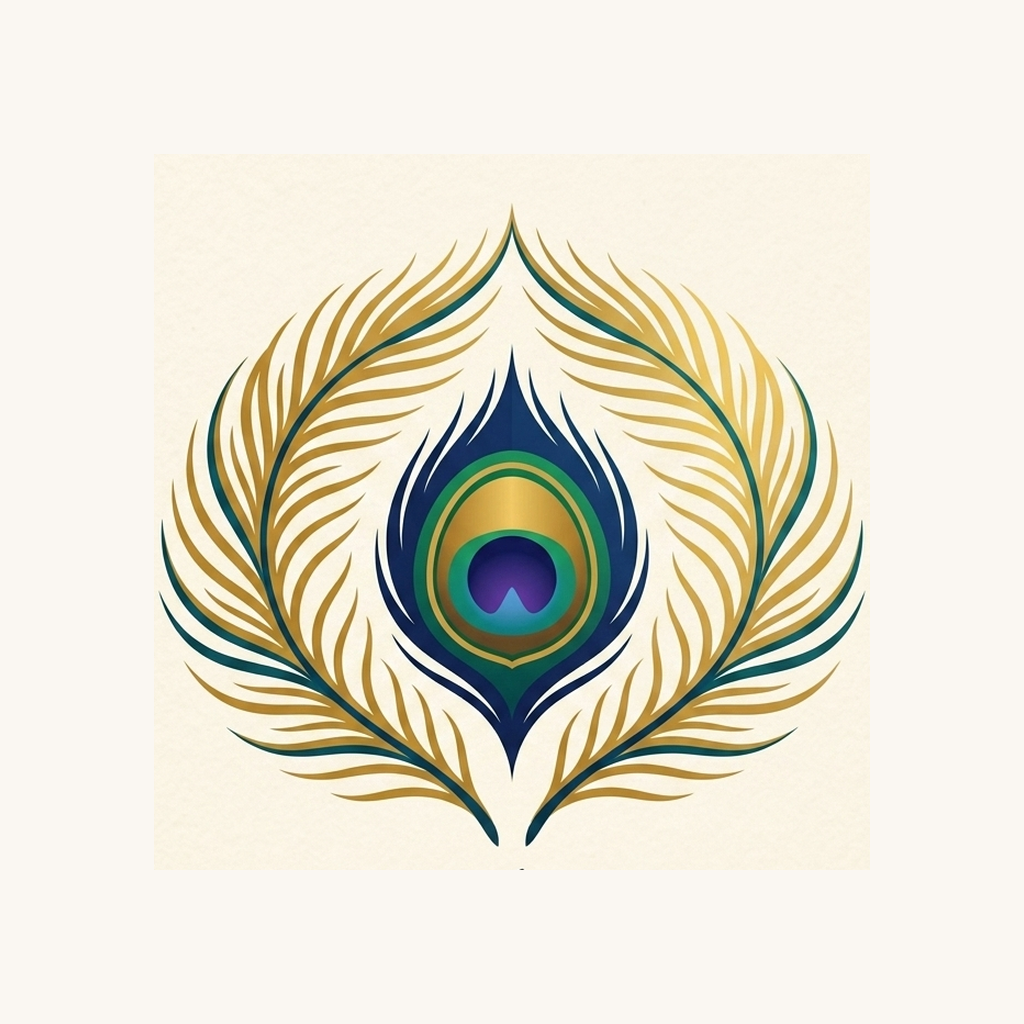
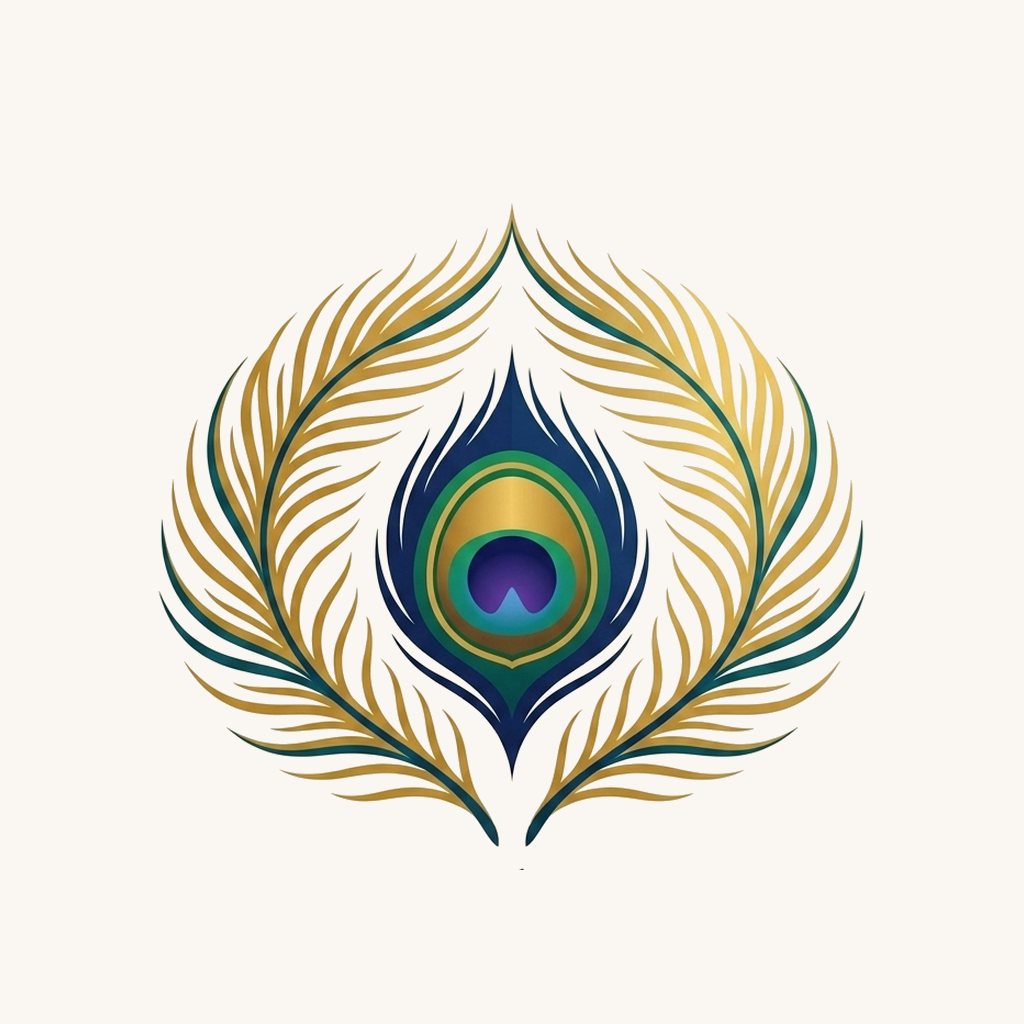
fix: splash screen color matching, sizing, and animation smoothness
- Normalize all near-cream background pixels in icon/splash assets to exact
  #FAF7F2 so the logo blends seamlessly without a visible rectangle around it
- Create splash-native.png (referenced in app.json but missing)
- Rebuild splash images with logo at 65% of canvas (was 40%)
- Fix animated overlay using explicit Dimensions.get('window').width instead
  of percentage width to avoid Yoga layout ambiguity that caused full-screen blowout
- Scale animation starts at 1.0 (matches native splash exactly) and grows to
  1.05 with overflow:hidden to keep the zoom contained

diff --git a/apps/mobile/App.tsx b/apps/mobile/App.tsx
@@ -1,6 +1,7 @@
 import { useCallback, useEffect, useRef, useState } from 'react';
 import {
   Animated,
+  Dimensions,
   Easing,
   Platform,
   StatusBar as RNStatusBar,
@@ -18,9 +19,12 @@ SplashScreen.preventAutoHideAsync();
 
 // ── Constants ─────────────────────────────────────────────────────────────────
 
-const APP_URL  = 'https://krishnasbliss.com';
-const API_BASE = 'https://krishnasbliss.com/api';
-const CREAM    = '#FAF7F2';
+const APP_URL     = 'https://krishnasbliss.com';
+const API_BASE    = 'https://krishnasbliss.com/api';
+const CREAM       = '#FAF7F2';
+// The native splash renders the 2048×2048 PNG contained within screen-width×screen-width.
+// We use the same explicit square so the React Native overlay matches exactly.
+const SPLASH_SIZE = Dimensions.get('window').width;
 
 // Tells the website it's running inside the app so the postMessage bridge fires
 const USER_AGENT =
@@ -77,31 +81,25 @@ export default function App() {
   const fcmToken   = useRef<string | null>(null);
 
   // ── Splash animation state ─────────────────────────────────────────────────
-  // scale: logo starts slightly small and grows to full — "zooming in"
-  const scale   = useRef(new Animated.Value(0.82)).current;
-  // opacity of the entire splash overlay — fades out to reveal the WebView
+  // Start at 1.0 so the overlay is pixel-identical to the native splash on reveal
+  const scale   = useRef(new Animated.Value(1.0)).current;
   const opacity = useRef(new Animated.Value(1)).current;
   const [splashDone, setSplashDone] = useState(false);
 
   const runSplashAnimation = useCallback(async () => {
-    // Hide the static Expo splash — our animated overlay takes over seamlessly
     await SplashScreen.hideAsync();
 
     Animated.sequence([
-      // Phase 1: Smooth zoom in — logo glides from 82% → 100%, decelerating
-      // to rest. Easing.out(cubic) starts fast and slows gracefully — no bounce.
       Animated.timing(scale, {
-        toValue:         1.0,
-        duration:        1100,
-        easing:          Easing.out(Easing.cubic),
+        toValue:         1.05,
+        duration:        1600,
+        easing:          Easing.out(Easing.quad),
         useNativeDriver: true,
       }),
-      // Phase 2: Hold at full size so the logo has a moment to breathe
-      Animated.delay(900),
-      // Phase 3: Elegant fade out to reveal the WebView
+      Animated.delay(200),
       Animated.timing(opacity, {
         toValue:         0,
-        duration:        550,
+        duration:        600,
         easing:          Easing.in(Easing.cubic),
         useNativeDriver: true,
       }),
@@ -162,8 +160,8 @@ export default function App() {
       {!splashDone && (
         <Animated.View style={[styles.splash, { opacity }]} pointerEvents="none">
           <Animated.Image
-            source={require('./assets/splash.png')}
-            style={[styles.splashLogo, { transform: [{ scale }] }]}
+            source={require('./assets/splash-native.png')}
+            style={[styles.splashImg, { transform: [{ scale }] }]}
             resizeMode="contain"
           />
         </Animated.View>
@@ -187,9 +185,10 @@ const styles = StyleSheet.create({
     backgroundColor: CREAM,
     alignItems:      'center',
     justifyContent:  'center',
+    overflow:        'hidden',
   },
-  splashLogo: {
-    width:  '72%',
-    height: '72%',
+  splashImg: {
+    width:  SPLASH_SIZE,
+    height: SPLASH_SIZE,
   },
 });
